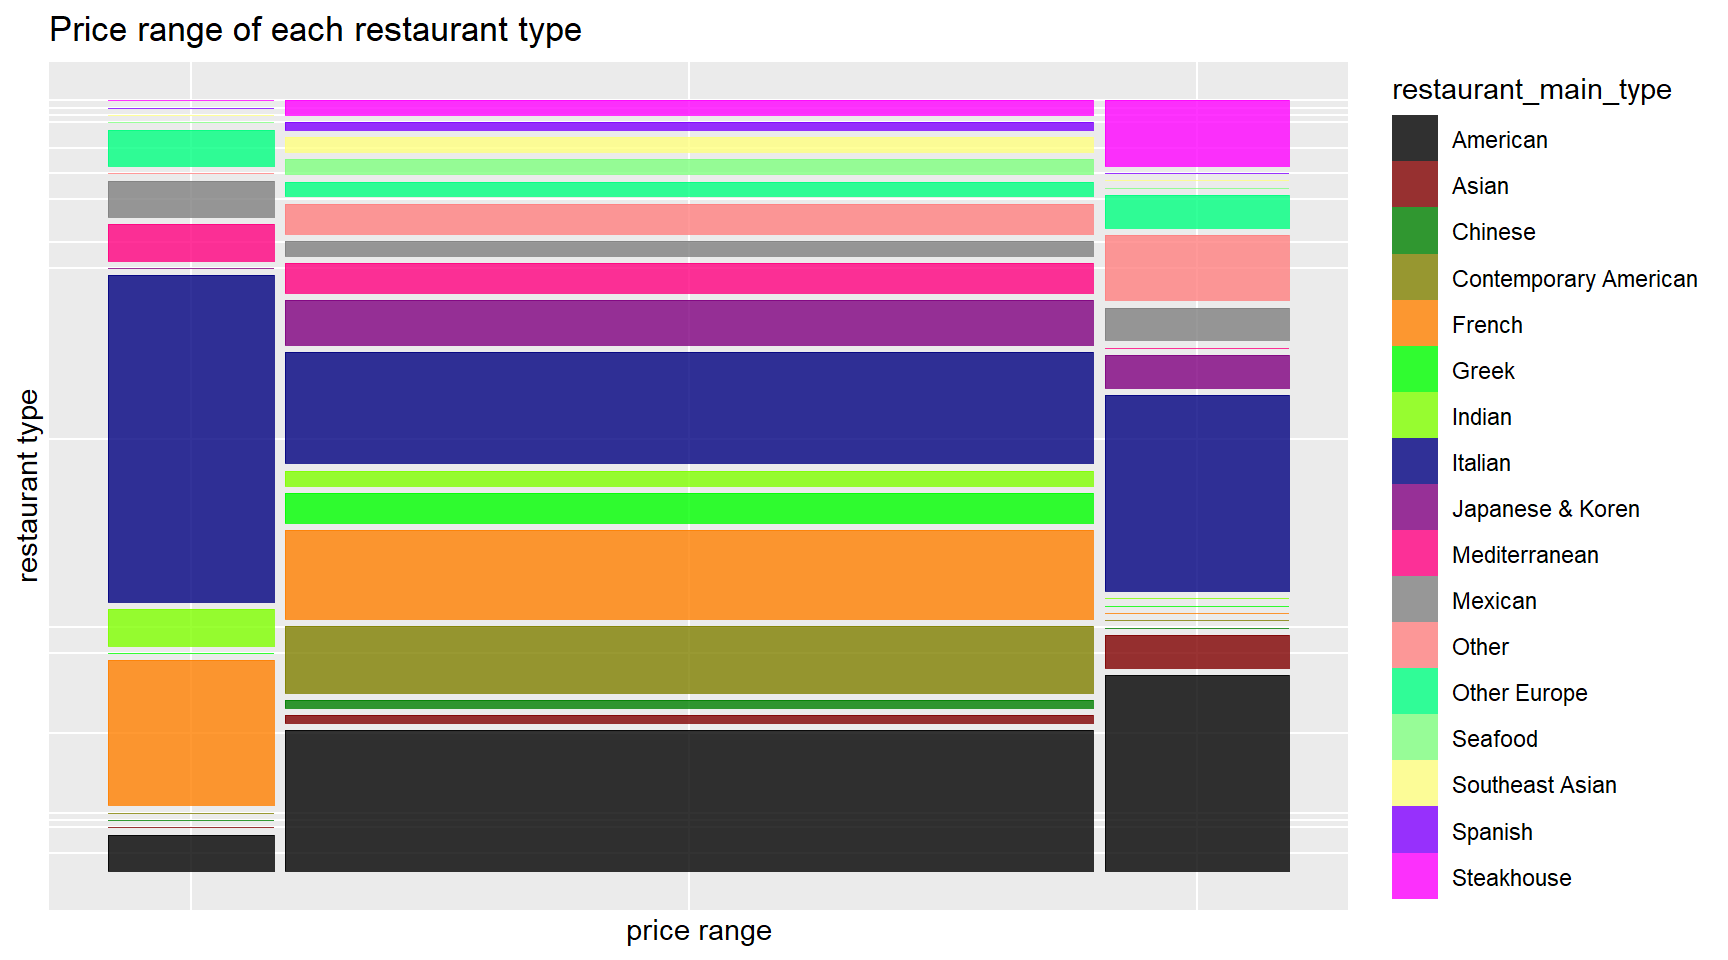
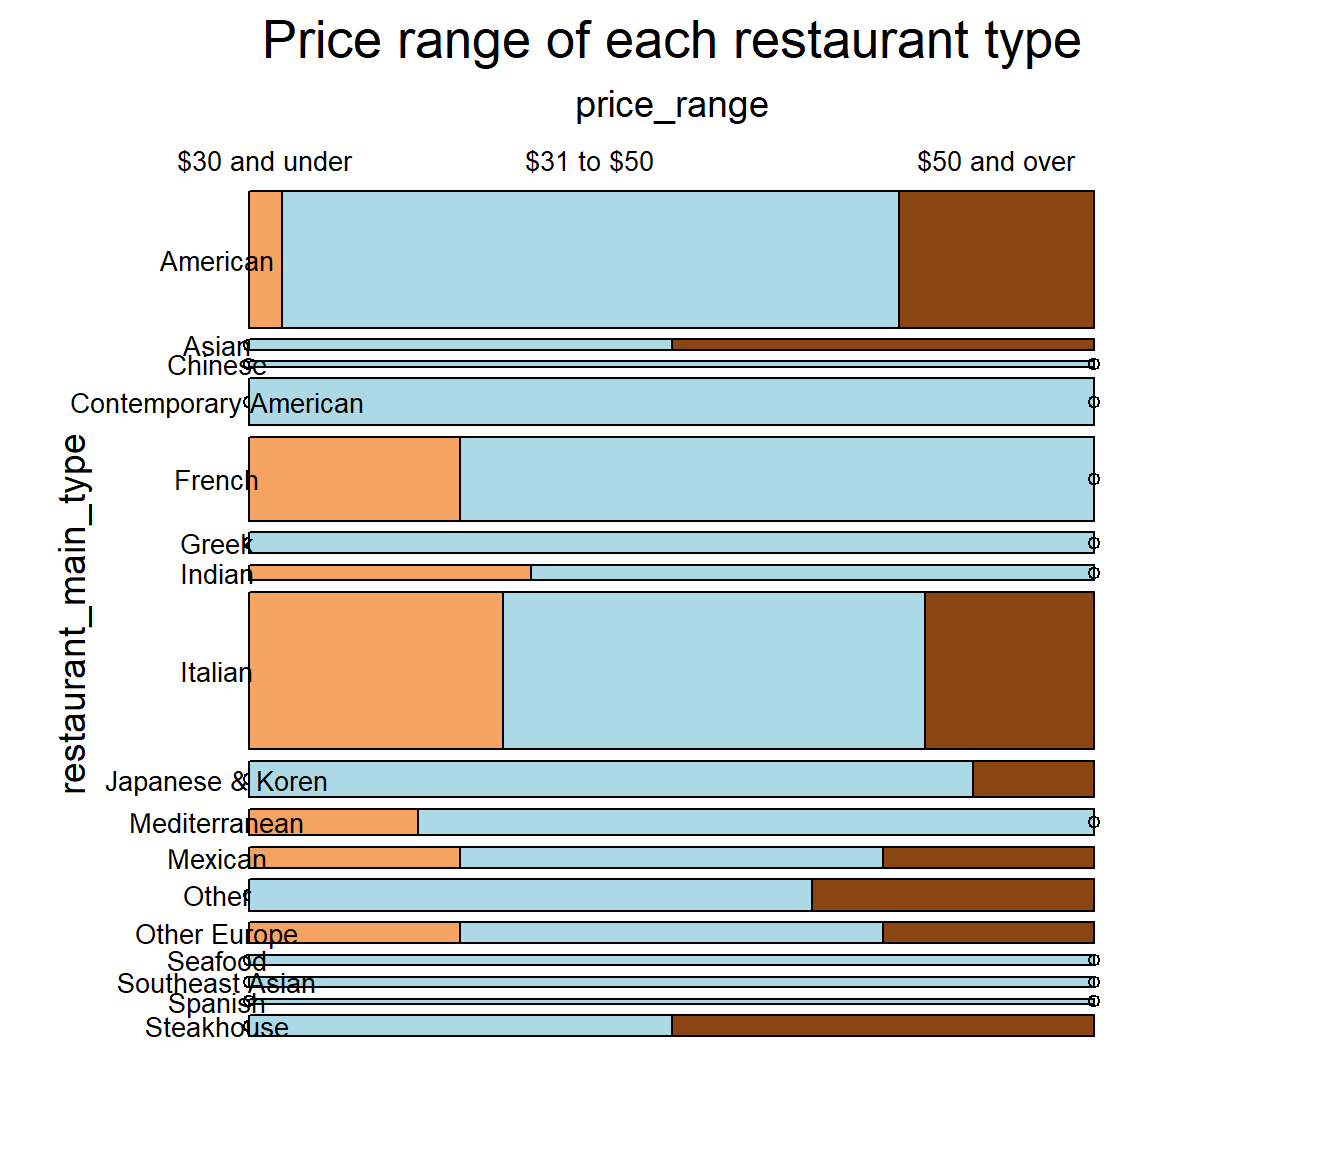
update everythiing

diff --git a/docs/results.html b/docs/results.html
@@ -103,17 +103,22 @@
 <p>First, we’d like to see what are the main types of restaurants in NYC Restaurant Week. The following is a plot of the number count for each restaurant type.</p>
 <p><img src="finalproj_files/figure-html/unnamed-chunk-21-1.png" width="672" /></p>
 <p>Not to our surprise, Italian restaurants are the most common restaurants in NYC Restaurant Week, followed by American and Steakhouse.</p>
-<p><img src="finalproj_files/figure-html/unnamed-chunk-22-1.png" width="864" /></p>
-<p><img src="finalproj_files/figure-html/unnamed-chunk-23-1.png" width="672" /></p>
+<p>How expensive are these restaurants? To explore this question, we plotted the following mosaic plot.</p>
+<p><img src="finalproj_files/figure-html/unnamed-chunk-22-1.png" width="672" /></p>
+<p>We can see that most of the restaurants attending restaurant week cost $30 to $50 per person. Surprisingly, French restaurants are not more expensive than other types of restaurants. In fact, there are bit any French restaurants costing more than $50 per person, whereas American restaurants have the most fancy restaurants.</p>
 <p>Then, we try to explore the relationship between restaurant average rating and inspection violation counts. To do that, we used <code>violation</code> created in data transformation, which contains both the restaurant ratings and the number of violations to plot the following scatterplot. Each restaurant is colored by their type.</p>
-<p><img src="finalproj_files/figure-html/unnamed-chunk-24-1.png" width="960" /></p>
+<p><img src="finalproj_files/figure-html/unnamed-chunk-23-1.png" width="960" /></p>
 <p>There is a major cluster in the bottom-right section of the graph, from average review of 4.4 to 4.75, and violation count from 4 to 8. This cluster represents that most of the restaurants attending restaurant week have relatively high ratings and few violations. However, the graph does not show any linear relationship between average rating and violations. It is also noticeable that there is an outlying restaurant with many violations but relatively low rating, so we think customers should pay special attention to that restaurant. We also labeled the worst rated restaurant in our data.</p>
 <p>Meanwhile, we are interested in what types of restaurants have the most violations. So we plotted the following Cleveland dot plot.</p>
-<p><img src="finalproj_files/figure-html/unnamed-chunk-25-1.png" width="672" /></p>
+<p><img src="finalproj_files/figure-html/unnamed-chunk-24-1.png" width="672" /></p>
 <p>As seen from above Southeast Asian restaurants have the most average violations over all the restaurant. We believe it is a reasonable result given the size of our data set and that Obao, the Southeast Asian restaurant, has abnormally more violation than other restaurants. Other than that, Seafood and Mexican restaurants have the second and third most violations. Most types of restaurants have around 5 to 10 violations.</p>
 <p>By the way, we are giving a big shoutout to Italian restaurants. They have the most numbers of restaurants, but lower average violations to most types of restaurants. Good job keeping that dishes clean, Italian restaurants!</p>
+<p>After looking at the cuisine pattern of the violations, we’d like to see if there are any geographical patters. That is, which neighborhoods have the most violations.</p>
+<p><img src="finalproj_files/figure-html/unnamed-chunk-25-1.png" width="672" /></p>
+<p>From the plot above, it is clear that Central Harlem has the most average violations among all neighborhoods, followed by Greenwich Village and Soho. Upper East Side, with no doubt, has the cleanest and safest restaurant.</p>
+<p>If we combine restaurant types into the each neighborhood, we get the following graph.</p>
 <p><img src="finalproj_files/figure-html/unnamed-chunk-26-1.png" width="672" /></p>
-<p><img src="finalproj_files/figure-html/unnamed-chunk-27-1.png" width="672" /></p>
+<p>From the new graph, we are able to get a lot of new information. For example, Central Harlem has the most average violation count because there is only one restaurant there and it had a lot of violations. We are also able to see the restaurant diversity in each neighborhood. Chelsea and Clinton, for instance, has the most total violations, but it also consists of the most restaurant types, almost every type we find. So if you are looking for diversity of tastes, Chelsea and Clinton can be a good neighborhood to go.</p>
 
 </div>
             </section>

diff --git a/docs/actual-interactive-d3.html b/docs/actual-interactive-d3.html
@@ -8,17 +8,12 @@
 	<script src="https://d3js.org/d3.v6.min.js"></script>
 	<script src="https://d3js.org/topojson.v2.min.js"></script>
 	<style>
-		.card {
-			padding: 20;
-			border: none;
-		}
-		
-		body {
-      -moz-transform: scale(0.5, 0.5); /* Moz-browsers */
-      zoom: 0.5; /* Other non-webkit browsers */
-      zoom: 50%; /* Webkit browsers */
-    }
 
+		body {
+		    -moz-transform: scale(0.5, 0.5); /* Moz-browsers */
+		    zoom: 0.5; /* Other non-webkit browsers */
+		    zoom: 50%; /* Webkit browsers */
+		}
 		county-path {
 			stroke: #fff;
 			stroke-width: .5;
@@ -48,23 +43,23 @@
 
 		#controls {
 			height: 100px;
-			width: 400px;
+			width: 200px;
 		}
 	</style>
 
 </head>
 
 <body>
-	<div class="card text-center" width="400" height="700">
+	<div class="card text-left" width="400" height="700">
 		<h1>NYC Restaurant Week Violations</h1>
 		<p>Explore the violations that restaurants from NYC Restaurant Week have gotten!</p>
 	</div>
 	<div>
-		<div id="main_container" class="container">
-			<div id="map_container" class="row text-center">
-				<div class="col">
-					<svg id="map" width="600" height="600" style="display:block;
-					margin:auto; border: 1px solid black"></svg>
+		<div id="main_container" class="container" style="margin:0">
+			<div id="map_container" class="row text-left">
+				<div>
+					<svg id="map" width="400" height="400" 
+					style="margin:0; border: 1px solid black"></svg>
 					<div class="text-center">
 						<div id='popover'><br></div>
 					</div>
@@ -75,7 +70,7 @@
 			</div>
 		</div>
 	</div>
-	<div id="restaurant" class="container pb-3">
+	<div id="restaurant" class="container" style="margin:0">
 		<div id="restaurant_holder">
 			<h3>Click on a restaurant!</h3>
 		</div>
@@ -100,7 +95,9 @@
 		//projection, path, svg view
 		var projection = d3.geoConicConformal()
 			.parallels([33, 45])
-			.rotate([96, -39])
+			// .parallels([50, 67])
+			// .rotate([96, -39])
+			.rotate([78, -20])
 			.translate([(width) / 2 - 1000, (height) / 2]).fitSize([mapWidth, mapHeight], nyc);
 		var path = d3.geoPath().projection(projection);
 		let view = mapSVG.append("g");
@@ -137,7 +134,6 @@
 
 		// Create color scale and legend
 		let maxViolations = d3.max(Object.values(week), function (d) { return parseInt(d.violation_count); });
-		console.log(maxViolations);
 		const colorScale = d3.scaleQuantile()
 			.domain([1, maxViolations])
 			.range(["#F08080", "#DC143C", "#B22222", "#8B0000"]);
@@ -363,9 +359,9 @@
 
 
 						//implement the chart
-						const chartMargin = { left: 40, right: 10, top: 50, bottom: 70 };
-						const chartWidth = 350 - chartMargin.left - chartMargin.right;
-						const chartHeight = 500 - chartMargin.top - chartMargin.bottom;
+						const chartMargin = { left: 5, right: 0, top: 20, bottom: 20 };
+						const chartWidth = 200 - chartMargin.left - chartMargin.right;
+						const chartHeight = 200 - chartMargin.top - chartMargin.bottom;
 
 
 						var chartxScale = d3.scaleTime()
@@ -386,8 +382,8 @@
 							.y(d => chartyScale(d.value)); // set the y values for the line generator
 
 						var chartSVG = d3.select("div#controls").append("svg")
-							.attr("width", 350)
-							.attr("height", 500)
+							.attr("width", 200)
+							.attr("height", 200)
 							.attr("id", "chartSVG")
 							.append("g")
 							.attr("transform", "translate(" + chartMargin.left + "," + chartMargin.top + ")");

diff --git a/docs/docs/actual-interactive-d3.html b/docs/docs/actual-interactive-d3.html
@@ -8,17 +8,12 @@
 	<script src="https://d3js.org/d3.v6.min.js"></script>
 	<script src="https://d3js.org/topojson.v2.min.js"></script>
 	<style>
-		.card {
-			padding: 20;
-			border: none;
-		}
-		
-		body {
-      -moz-transform: scale(0.5, 0.5); /* Moz-browsers */
-      zoom: 0.5; /* Other non-webkit browsers */
-      zoom: 50%; /* Webkit browsers */
-    }
 
+		body {
+		    -moz-transform: scale(0.5, 0.5); /* Moz-browsers */
+		    zoom: 0.5; /* Other non-webkit browsers */
+		    zoom: 50%; /* Webkit browsers */
+		}
 		county-path {
 			stroke: #fff;
 			stroke-width: .5;
@@ -48,23 +43,23 @@
 
 		#controls {
 			height: 100px;
-			width: 400px;
+			width: 200px;
 		}
 	</style>
 
 </head>
 
 <body>
-	<div class="card text-center" width="400" height="700">
+	<div class="card text-left" width="400" height="700">
 		<h1>NYC Restaurant Week Violations</h1>
 		<p>Explore the violations that restaurants from NYC Restaurant Week have gotten!</p>
 	</div>
 	<div>
-		<div id="main_container" class="container">
-			<div id="map_container" class="row text-center">
-				<div class="col">
-					<svg id="map" width="600" height="600" style="display:block;
-					margin:auto; border: 1px solid black"></svg>
+		<div id="main_container" class="container" style="margin:0">
+			<div id="map_container" class="row text-left">
+				<div>
+					<svg id="map" width="400" height="400" 
+					style="margin:0; border: 1px solid black"></svg>
 					<div class="text-center">
 						<div id='popover'><br></div>
 					</div>
@@ -75,7 +70,7 @@
 			</div>
 		</div>
 	</div>
-	<div id="restaurant" class="container pb-3">
+	<div id="restaurant" class="container" style="margin:0">
 		<div id="restaurant_holder">
 			<h3>Click on a restaurant!</h3>
 		</div>
@@ -100,7 +95,9 @@
 		//projection, path, svg view
 		var projection = d3.geoConicConformal()
 			.parallels([33, 45])
-			.rotate([96, -39])
+			// .parallels([50, 67])
+			// .rotate([96, -39])
+			.rotate([78, -20])
 			.translate([(width) / 2 - 1000, (height) / 2]).fitSize([mapWidth, mapHeight], nyc);
 		var path = d3.geoPath().projection(projection);
 		let view = mapSVG.append("g");
@@ -137,7 +134,6 @@
 
 		// Create color scale and legend
 		let maxViolations = d3.max(Object.values(week), function (d) { return parseInt(d.violation_count); });
-		console.log(maxViolations);
 		const colorScale = d3.scaleQuantile()
 			.domain([1, maxViolations])
 			.range(["#F08080", "#DC143C", "#B22222", "#8B0000"]);
@@ -363,9 +359,9 @@
 
 
 						//implement the chart
-						const chartMargin = { left: 40, right: 10, top: 50, bottom: 70 };
-						const chartWidth = 350 - chartMargin.left - chartMargin.right;
-						const chartHeight = 500 - chartMargin.top - chartMargin.bottom;
+						const chartMargin = { left: 5, right: 0, top: 20, bottom: 20 };
+						const chartWidth = 200 - chartMargin.left - chartMargin.right;
+						const chartHeight = 200 - chartMargin.top - chartMargin.bottom;
 
 
 						var chartxScale = d3.scaleTime()
@@ -386,8 +382,8 @@
 							.y(d => chartyScale(d.value)); // set the y values for the line generator
 
 						var chartSVG = d3.select("div#controls").append("svg")
-							.attr("width", 350)
-							.attr("height", 500)
+							.attr("width", 200)
+							.attr("height", 200)
 							.attr("id", "chartSVG")
 							.append("g")
 							.attr("transform", "translate(" + chartMargin.left + "," + chartMargin.top + ")");

diff --git a/docs/conclusion.html b/docs/conclusion.html
@@ -100,7 +100,8 @@
             <section class="normal" id="section-">
 <div id="conclusion" class="section level1">
 <h1><span class="header-section-number">Chapter 7</span> Conclusion</h1>
-<p>Our project is able to provide detailed individual restaurants information for users.While the interactive plotting page provides violation and review information of restaurants, some higher level summaries are available in our result page. When we are constructing these pages, we did encounter some problems that we were not able to solve at the current stage. First, our d3 SVG could not automatically scale when there is a change in the window size. Since SVG is not responsive to the size change, we have to manually adjust the size many times to fit the bookdown view. The second problem we had was the coloring problem in our result page. Since there are so many restaurant types, the current color palette does not have enough colors for us. We had to define a function to randomly select colors for restaurant types which made us lose the control over colors we want to use. Our potential improvement will focus on these two problems. We want to make the SVG responsive to the window size change. We will do some investigations on the color palette to gain more control over the colors.</p>
+<p>Our project is able to provide detailed individual restaurants information for users.While the interactive plotting page provides violation and review information of restaurants, some higher level summaries are available in our result page. When we are constructing these pages, we did encounter some problems that we were not able to solve at the current stage.</p>
+<p>First, our d3 SVG could not automatically scale when there is a change in the window size. Since SVG is not responsive to the size change, we have to manually adjust the size many times to fit the bookdown view. The second problem we had was the coloring problem in our result page. Since there are so many restaurant types, the current color palette does not have enough colors for us. We had to define a function to randomly select colors for restaurant types which made us lose the control over colors we want to use. Our potential improvement will focus on these two problems. We want to make the SVG responsive to the window size change. We will do some investigations on the color palette to gain more control over the colors. Another problem is that when we were plotting the last stacked bar chart, the bars couldn’t be</p>
 
 </div>
             </section>

diff --git a/docs/missing-values.html b/docs/missing-values.html
@@ -146,9 +146,9 @@
 ##                    0                    0                    0 
 ##            longitude          postal_code 
 ##                    0                    1</code></pre>
-<p>There are 5 NA’s in each review columns. To find out where they are, we plot the missing patterns in data by rows with <code>mi</code> package.</p>
+<p>There are 3 NA’s in website column. To find out where they are, we plot the missing patterns in data by rows with <code>mi</code> package.</p>
 <p><img src="finalproj_files/figure-html/unnamed-chunk-7-1.png" width="672" /></p>
-<p>From the plot above, we can see that all 10 missing values are in the same rows, so we decided to remove these rows by using <code>na.omit()</code> function. And we check again to make sure there are no NA’s in the dataset.</p>
+<p>From the plot above, we are able to detect all the missing values are. Since it only consist of a small part of our data, we decided to remove these rows by using <code>na.omit()</code> function. And we check again to make sure there are no NA’s in the dataset.</p>
 <pre><code>##                 name       street_address           google_map 
 ##                    0                    0                    0 
 ##         review_count                phone              website 
@@ -187,6 +187,7 @@
 ## 4                   0     A 06/07/2013
 ## 5             Y     9     A 02/11/2014
 ## 6             N     9     A 02/11/2014</code></pre>
+<p>Here are the missing values.</p>
 <pre><code>##                   DBA VIOLATION.DESCRIPTION         CRITICAL.FLAG 
 ##                     0                  1755                  1755 
 ##                 SCORE                 GRADE            GRADE.DATE 
